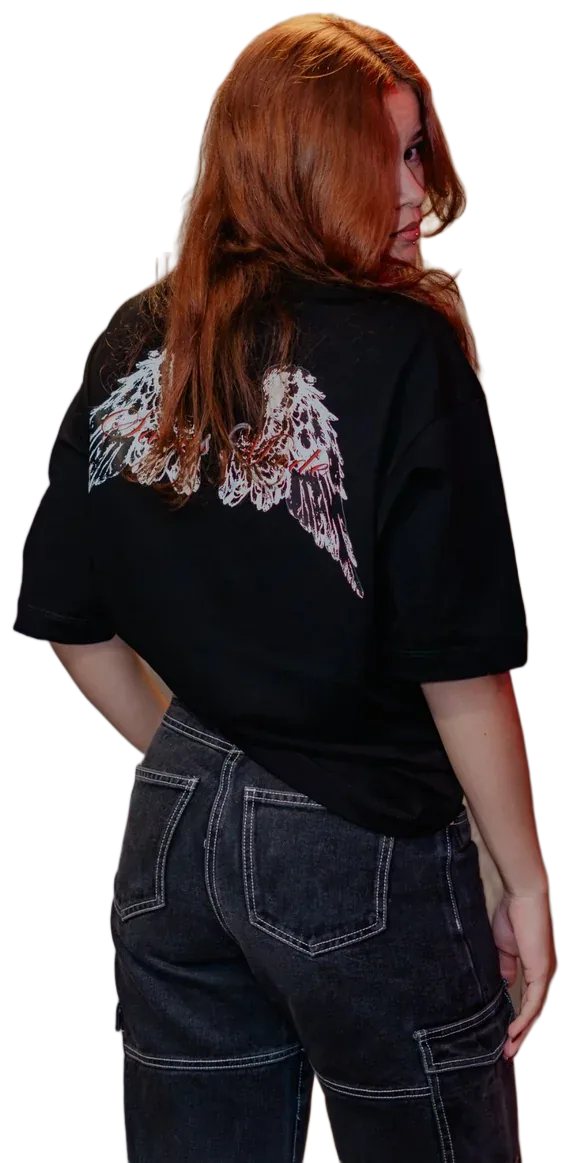
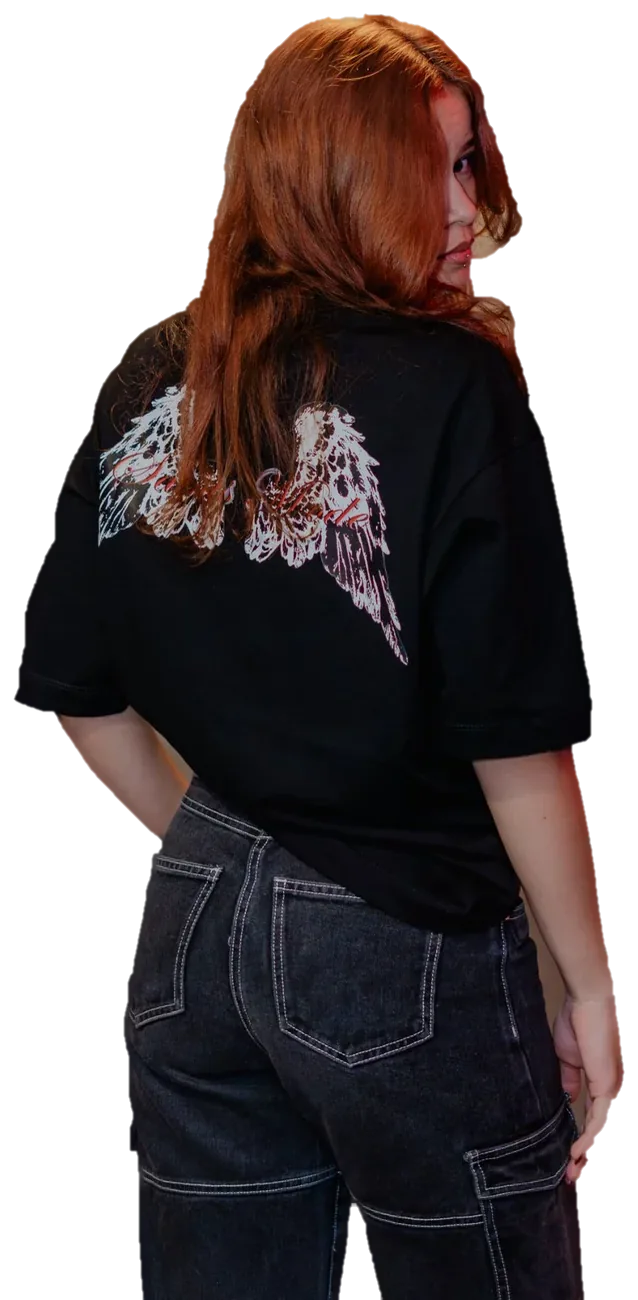
Sticker sold out en blanco y negro encima del estampado; recortes más limpios de camisetas y modelos
Claude-Session: https://claude.ai/code/session_013ynmKTYERfCmJQKP2pb1Nx

diff --git a/js/components/product-card.js b/js/components/product-card.js
@@ -4,14 +4,14 @@ import { productVisual } from './product-art.js';
 import { bus } from '../core/bus.js';
 
 /**
- * Dónde va pegado el sticker de SOLD OUT: cada camiseta (y cada color) lo
- * tiene en un lugar y con un giro distinto, como pegado a mano.
+ * Dónde va pegado el sticker de SOLD OUT: siempre encima del estampado, pero
+ * cada camiseta (y cada color) con un giro y un corrimiento distinto, como pegado a mano.
  */
 function stickerSpot(id, colorIndex) {
   let h = 2166136261;
   for (const ch of `${id}:${colorIndex}`) h = Math.imul(h ^ ch.charCodeAt(0), 16777619);
   const r = (k) => (((h >>> (k * 5)) & 1023) / 1023) * 2 - 1; // -1..1
-  return `--st-rot:${(r(0) * 16).toFixed(1)}deg;--st-x:${(r(1) * 14).toFixed(1)}%;--st-y:${(r(2) * 16).toFixed(1)}%;--st-s:${(1 + r(3) * 0.08).toFixed(2)}`;
+  return `--st-rot:${(r(0) * 15).toFixed(1)}deg;--st-x:${(r(1) * 4).toFixed(1)}%;--st-y:${(2 + r(2) * 4).toFixed(1)}%;--st-s:${(1 + r(3) * 0.06).toFixed(2)}`;
 }
 
 /**

diff --git a/index.html b/index.html
@@ -57,7 +57,7 @@
       "./js/components/manifesto.js": "./js/components/manifesto.js?v=b0ba1172",
       "./js/components/marquee.js": "./js/components/marquee.js?v=251a2a8a",
       "./js/components/product-art.js": "./js/components/product-art.js?v=f1c7eda1",
-      "./js/components/product-card.js": "./js/components/product-card.js?v=8574f0f6",
+      "./js/components/product-card.js": "./js/components/product-card.js?v=108a2e27",
       "./js/components/product-grid.js": "./js/components/product-grid.js?v=92202891",
       "./js/components/quick-view.js": "./js/components/quick-view.js?v=3f8fb493",
       "./js/components/reveal.js": "./js/components/reveal.js?v=1d3f83fc",

diff --git a/tools/recorte/recortar.py b/tools/recorte/recortar.py
@@ -84,12 +84,44 @@ def keep_largest(m):
     return Image.fromarray((a * keep).astype(np.uint8))
 
 
-def cut(sess, path, out_dir, max_side, largest=True):
+def grabcut(im, m, band=None, iters=5):
+    """Afina la máscara con GrabCut usando los colores de la foto: lo que la
+    red marcó seguro se queda, lo dudoso del borde se decide por color
+    (así salen los pedacitos de fondo pegados al pelo o entre las piernas)."""
+    import cv2
+    a = np.asarray(m)
+    h, w = a.shape
+    band = band or max(6, int(min(w, h) * 0.012))
+    k = np.ones((band, band), np.uint8)
+    gc = np.full((h, w), cv2.GC_PR_BGD, np.uint8)
+    gc[a > 127] = cv2.GC_PR_FGD
+    gc[cv2.erode((a > 200).astype(np.uint8), k) > 0] = cv2.GC_FGD
+    gc[cv2.dilate((a > 30).astype(np.uint8), k) == 0] = cv2.GC_BGD
+    img = cv2.cvtColor(np.asarray(im), cv2.COLOR_RGB2BGR)
+    bg, fg = np.zeros((1, 65), np.float64), np.zeros((1, 65), np.float64)
+    cv2.grabCut(img, gc, None, bg, fg, iters, cv2.GC_INIT_WITH_MASK)
+    hard = np.isin(gc, (cv2.GC_FGD, cv2.GC_PR_FGD)).astype(np.uint8)
+    # quitar islas sueltas y rellenar huecos chiquitos
+    n, lab, st, _ = cv2.connectedComponentsWithStats(hard, 8)
+    if n > 2:
+        big = 1 + int(np.argmax(st[1:, cv2.CC_STAT_AREA]))
+        hard = (lab == big).astype(np.uint8)
+    hard = cv2.morphologyEx(hard, cv2.MORPH_CLOSE, np.ones((5, 5), np.uint8))
+    # borde suave: mezcla con la máscara original solo en la franja del borde
+    soft = cv2.GaussianBlur(hard.astype(np.float32), (5, 5), 0)
+    edge = cv2.dilate(hard, np.ones((7, 7), np.uint8)) - cv2.erode(hard, np.ones((7, 7), np.uint8))
+    out = np.where(edge > 0, np.minimum(soft, a / 255.0 + 0.25), hard.astype(np.float32))
+    return Image.fromarray(np.clip(out * 255, 0, 255).astype(np.uint8))
+
+
+def cut(sess, path, out_dir, max_side, largest=True, refine=True):
     im = ImageOps.exif_transpose(Image.open(path)).convert('RGB')
     im.thumbnail((max_side, max_side), Image.LANCZOS)
     m = mask_for(sess, im)
     if largest:
         m = keep_largest(m)
+    if refine:
+        m = grabcut(im, m)
     # borde limpio: sube el contraste de la máscara y suaviza un pelo
     m = m.point(lambda v: 0 if v < 20 else 255 if v > 235 else int((v - 20) * 255 / 215)).filter(ImageFilter.GaussianBlur(0.6))
     rgba = defringe(im, m)
@@ -110,8 +142,9 @@ if __name__ == '__main__':
     ap.add_argument('--max', type=int, default=1400)
     ap.add_argument('--modelo', choices=list(MODELS) + ['persona'], default='general')
     ap.add_argument('--todo', action='store_true', help='no quitar objetos sueltos (deja todo lo que detecte)')
+    ap.add_argument('--sin-afinar', action='store_true', help='no pasar GrabCut por el borde')
     a = ap.parse_args()
     os.makedirs(a.out, exist_ok=True)
     s = Persona() if a.modelo == 'persona' else session(a.modelo)
     for f in a.fotos:
-        print(cut(s, f, a.out, a.max, not a.todo), flush=True)
+        print(cut(s, f, a.out, a.max, not a.todo, not a.sin_afinar), flush=True)

diff --git a/tools/sticker/sold_out_sticker.py b/tools/sticker/sold_out_sticker.py
@@ -37,8 +37,8 @@ svg = f'''<svg xmlns="http://www.w3.org/2000/svg" viewBox="0 0 {W} {H}" width="{
 <g filter="url(#sh)"><use href="#t" fill="#fff" stroke="#fff" stroke-width="225" stroke-linejoin="round"/></g>
 <!-- contorno negro grueso -->
 <use href="#t" fill="#0a0a0a" stroke="#0a0a0a" stroke-width="140" stroke-linejoin="round"/>
-<!-- sombra 3D de las letras -->
-<use href="#t" transform="translate(8 10)" fill="#e3151a" stroke="#e3151a" stroke-width="22" stroke-linejoin="round"/>
+<!-- sombra 3D de las letras (negra) -->
+<use href="#t" transform="translate(8 10)" fill="#0a0a0a" stroke="#0a0a0a" stroke-width="22" stroke-linejoin="round"/>
 <!-- letras -->
 <use href="#t" fill="#fff" stroke="#0a0a0a" stroke-width="12" stroke-linejoin="round"/>
 </svg>'''
